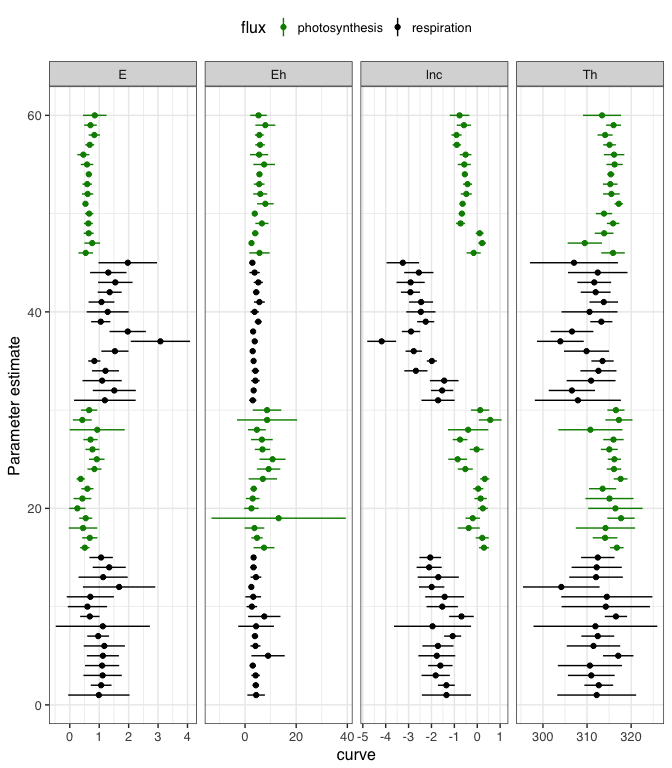
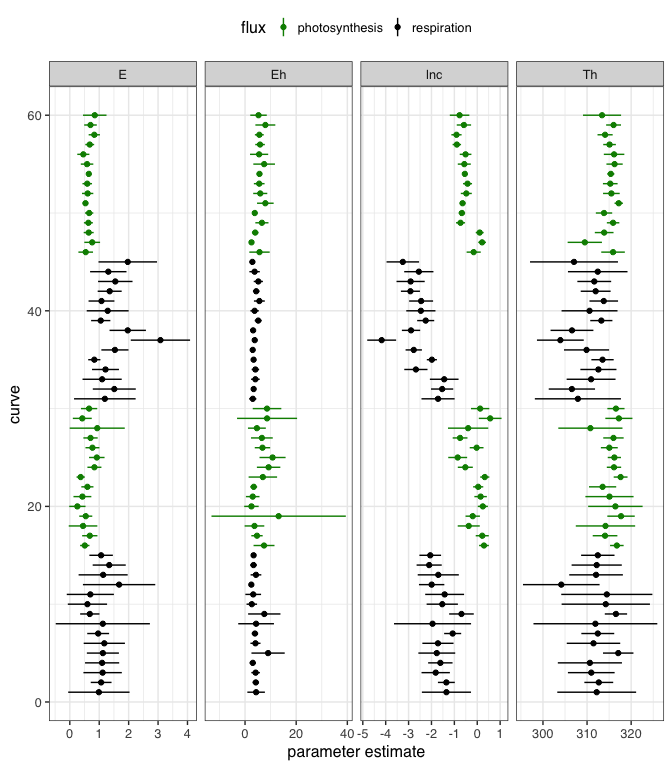
update Readme and vignette with correct axis labels

diff --git a/README.md b/README.md
@@ -75,7 +75,7 @@ head(fits$params)
 #> 2        2 -1.349431 1.0653450 4.211374 312.6591 22.39398 0.8978426
 #> 3        3 -1.815315 1.1155334 4.140395 310.9545 34.77114 0.7804032
 #> 4        4 -1.612615 1.0982576 3.025816 310.6412 31.04688 0.8709134
-#> 5        5 -1.767711 1.1244277 9.010641 317.0688 41.69970 0.7602547
+#> 5        5 -1.767711 1.1244277 9.010640 317.0688 41.69970 0.7602547
 #> 6        6 -1.717258 1.1727047 4.077252 311.4596 37.03555 0.7289198
 
 head(fits$predictions)
@@ -146,8 +146,8 @@ ggplot(CIs, aes(col = flux)) +
   scale_color_manual(values = c('green4', 'black')) +
   theme_bw(base_size = 12, base_family = 'Helvetica') +
   theme(legend.position = 'top') +
-  xlab('Parameter estimate') +
-  ylab('curve')
+  xlab('curve') +
+  ylab('parameter estimate')
 ```
 
 ![](README-confint_nlsLoop-1.png)
